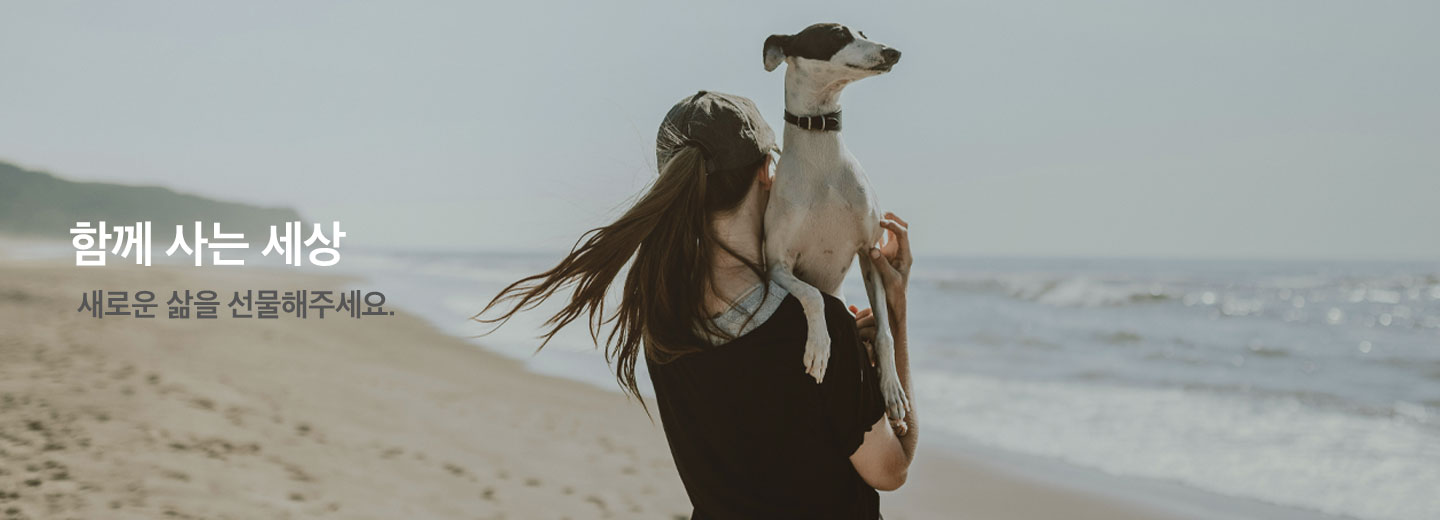
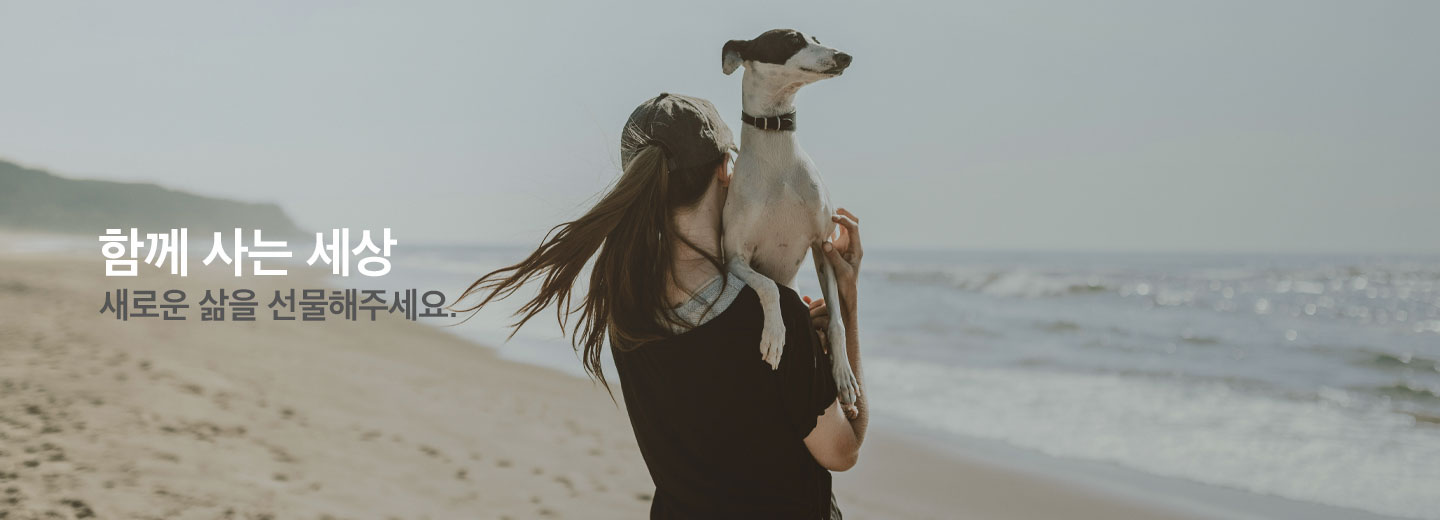
😤 다시 한번 커밋

diff --git a/js/jquery.bxslider.js b/js/jquery.bxslider.js
@@ -14,7 +14,8 @@
     slideSelector: '',
     infiniteLoop: true,
     hideControlOnEnd: false,
-    speed: 500,
+    speed: 300,
+    pause: 3000,
     easing: null,
     slideMargin: 0,
     startSlide: 0,
@@ -46,7 +47,7 @@
     keyboardEnabled: false,
 
     // PAGER
-    pager: true,
+    pager: false,
     pagerType: 'full',
     pagerShortSeparator: ' / ',
     pagerSelector: null,
@@ -54,20 +55,19 @@
     pagerCustom: null,
 
     // CONTROLS
-    controls: true,
+    controls: false,
     nextText: 'Next',
     prevText: 'Prev',
     nextSelector: null,
     prevSelector: null,
-    autoControls: false,
+    autoControls: true,
     startText: 'Start',
     stopText: 'Stop',
     autoControlsCombine: false,
     autoControlsSelector: null,
 
     // AUTO
-    auto: false,
-    pause: 4000,
+    auto: true,
     autoStart: true,
     autoDirection: 'next',
     stopAutoOnClick: false,
@@ -78,16 +78,16 @@
     // CAROUSEL
     minSlides: 1,
     maxSlides: 1,
-    moveSlides: 0,
+    moveSlides: 1,
     slideWidth: 0,
     shrinkItems: false,
 
     // CALLBACKS
     onSliderLoad: function() { return true; },
-    onSlideBefore: function() { return true; },
+    onSlideBefore: function($slideElement, oldIndex, newIndex) { return true; },
     onSlideAfter: function() { return true; },
-    onSlideNext: function() { return true; },
-    onSlidePrev: function() { return true; },
+    onSlideNext: function($slideElement, oldIndex, newIndex) { return true; },
+    onSlidePrev: function($slideElement, oldIndex, newIndex) { return true; },
     onSliderResize: function() { return true; }
   };
 

diff --git a/index.html b/index.html
@@ -45,7 +45,7 @@
         <header class="header container cf" id="tag">
             <!-- Logo -->
             <h1 class="logo">
-                <a href="#tag"><img src="./images/logo.png" alt="로고"></a>
+                <a href="#"><img src="./images/logo.png" alt="로고"></a>
             </h1>
             <!-- /Logo -->
             <!-- Gnb -->
@@ -64,13 +64,13 @@
         <!-- 2. Slider-->
         <!-- 2. Slider 박스 슬라이더 적용-->
         <article class="slider">
-            <h2 id="gallery_wrap">
+            <div id="gallery_wrap">
                 <ul class="slide_gallery">
                     <li><img src="./images/banner01.jpg" alt="슬라이드이미지1"></li>
                     <li><img src="./images/banner02.jpg" alt="슬라이드이미지2"></li>
                     <li><img src="./images/banner03.jpg" alt="슬라이드이미지3"></li>
                 </ul>
-            </h2>
+            </div>
         </article>
         <!-- /2. Slider -->
 

diff --git a/css/template.css b/css/template.css
@@ -82,7 +82,34 @@ body {
 
 
 /* 2. Slider*/
-.slider .slider_img {
+.slider {
+    position: relative;
+    overflow: hidden;
+    width: 100%;
+}
+#gallery_wrap {
+    position: relative;
+    width: 100%;
+    overflow: hidden;
+}
+.slide_gallery {
+    position: relative;
+    width: 300%;
+    left: 0;
+    margin: 0;
+    padding: 0;
+    list-style: none;
+}
+.slide_gallery li {
+    float: left;
+    width: 33.333%;
+}
+.slide_gallery img {
+    width: 100%;
+    display: block;
+    transition: all 0.2s;
+}
+/* .slider .slider_img {
     max-width: 100%;
     width: 100%;
 }
@@ -97,7 +124,7 @@ article {
 #gallery_wrap img {
     width: 100%;
     transition: all 0.2s;
-}
+} */
 
 /* 3. Contents */
 /* 3-1. Display */

diff --git a/css/jquery.bxslider.css b/css/jquery.bxslider.css
@@ -99,7 +99,7 @@ ul.bxslider {
   line-height: 0;
 }
 /* DIRECTION CONTROLS (NEXT / PREV) */
-/* .bx-wrapper .bx-prev {
+.bx-wrapper .bx-prev {
   left: 10px;
   background: url('images/controls.png') no-repeat 0 -32px;
 }
@@ -110,7 +110,7 @@ ul.bxslider {
 .bx-wrapper .bx-next {
   right: 10px;
   background: url('images/controls.png') no-repeat -43px -32px;
-} */
+}
 .bx-wrapper .bx-next:hover,
 .bx-wrapper .bx-next:focus {
   background-position: -43px 0;
